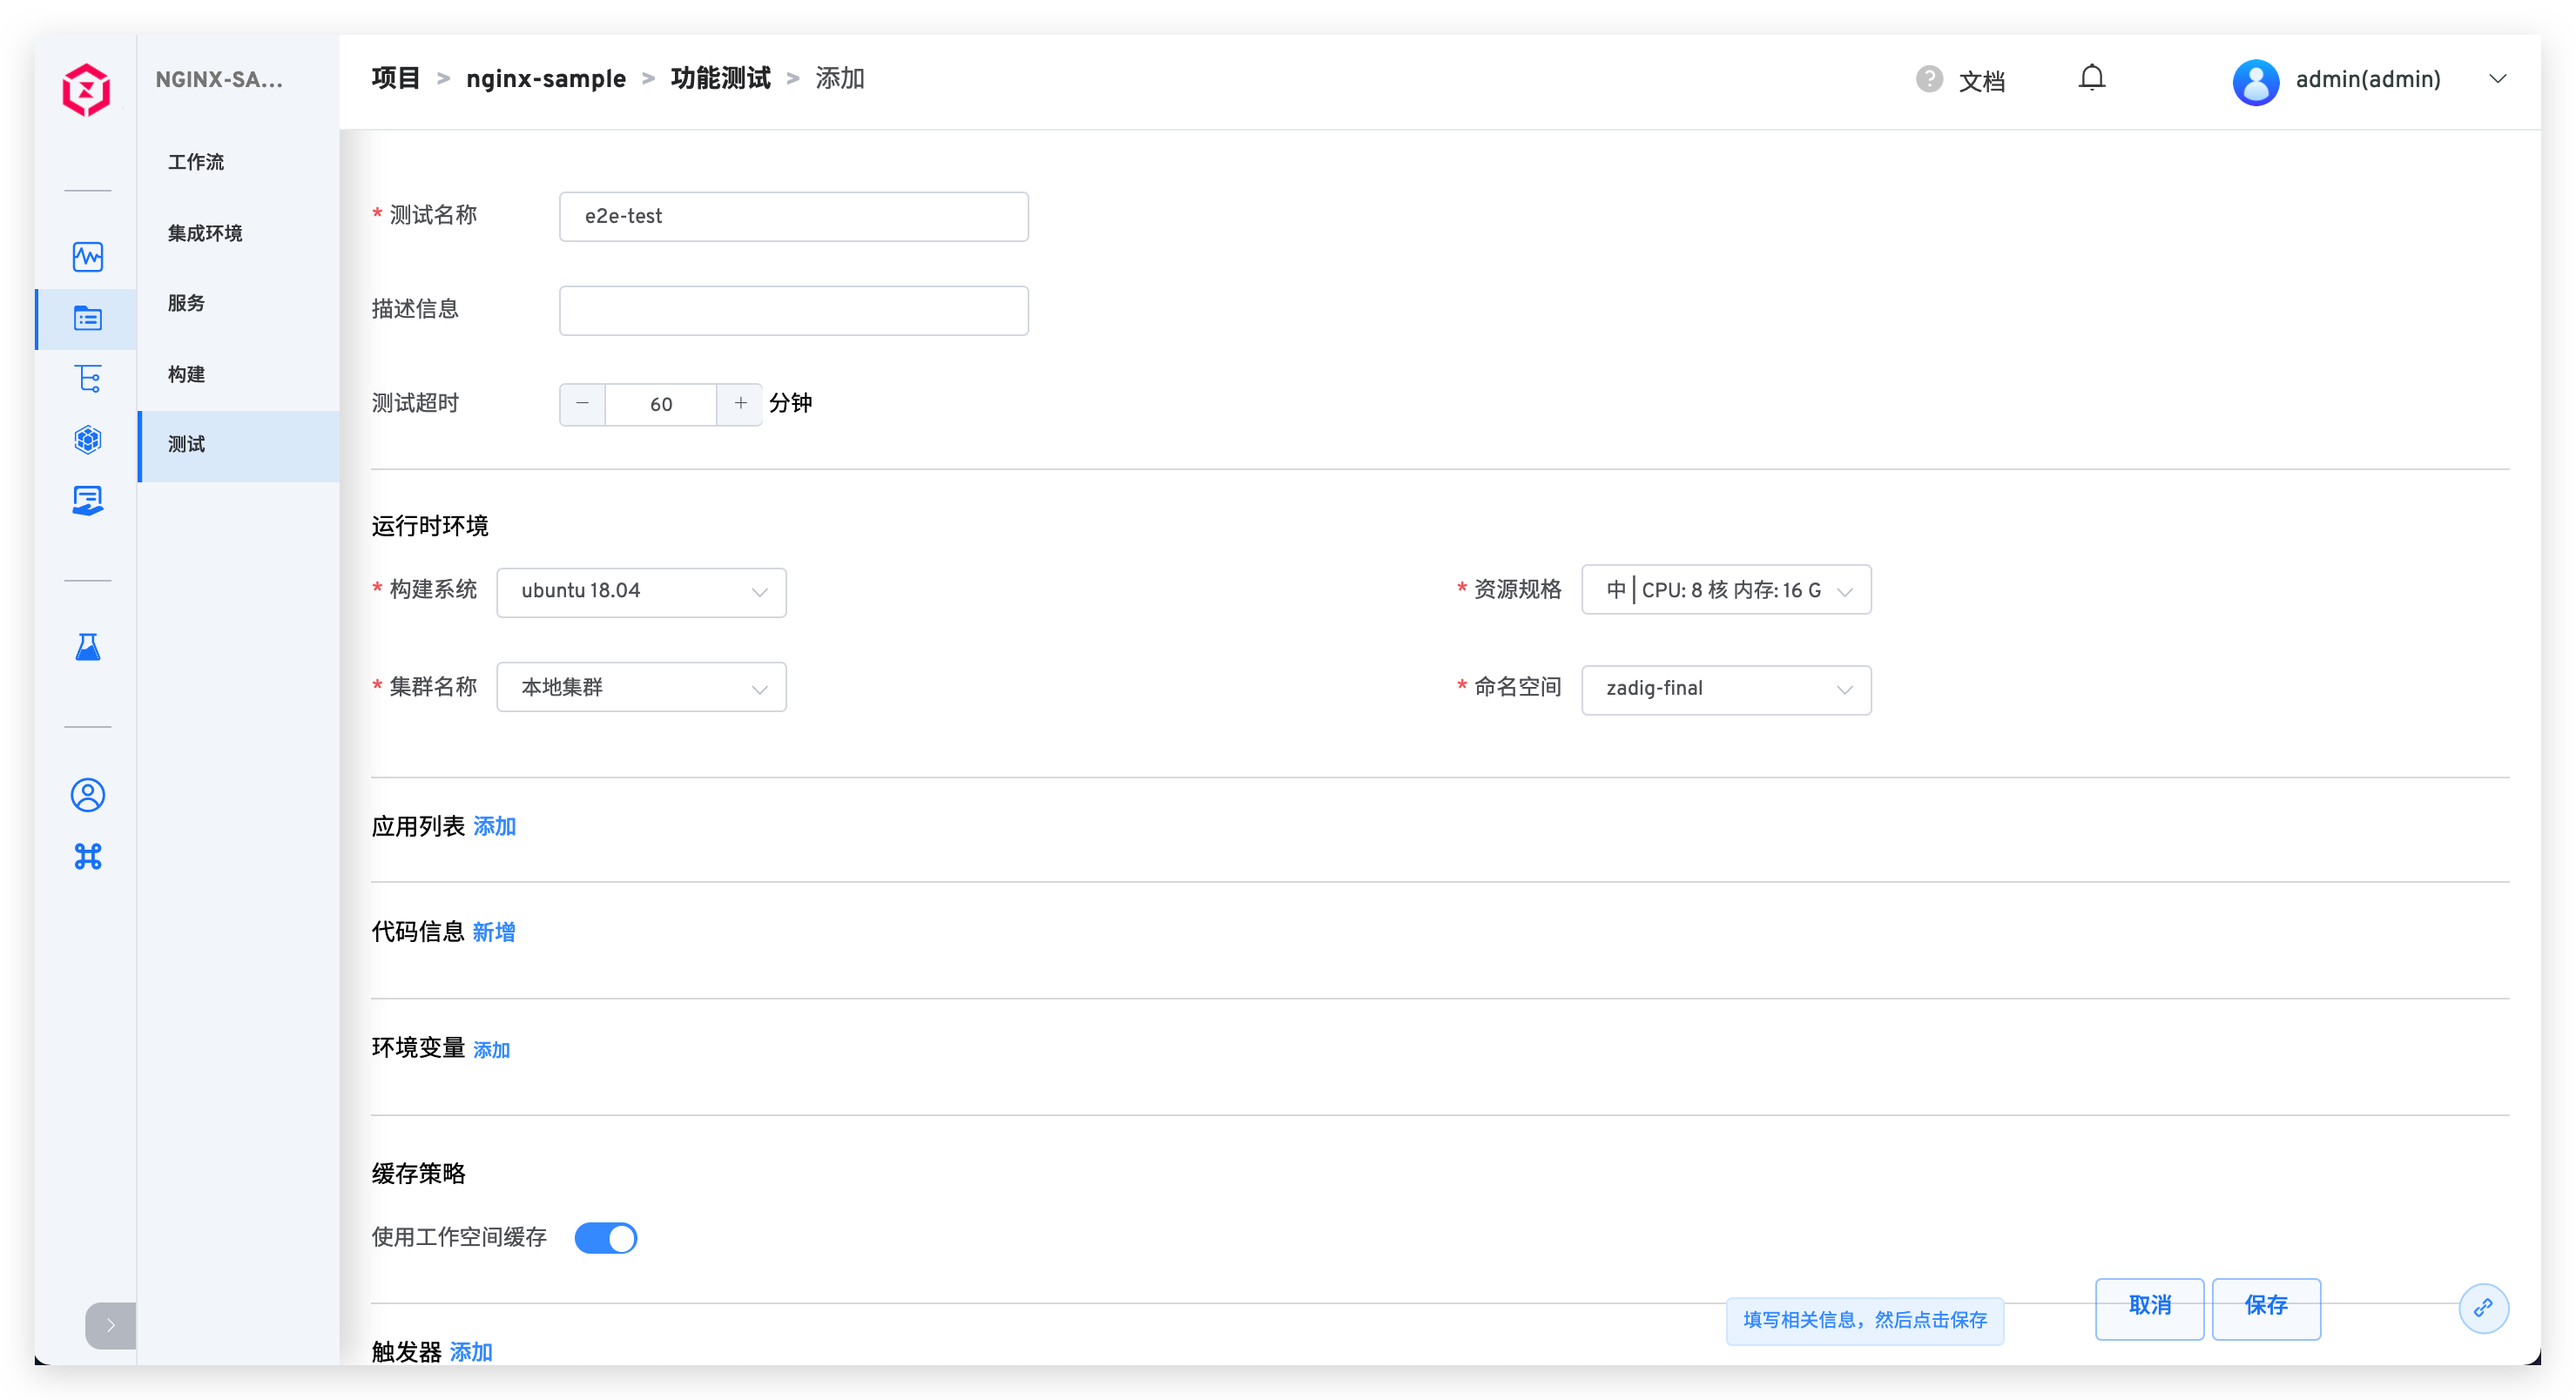
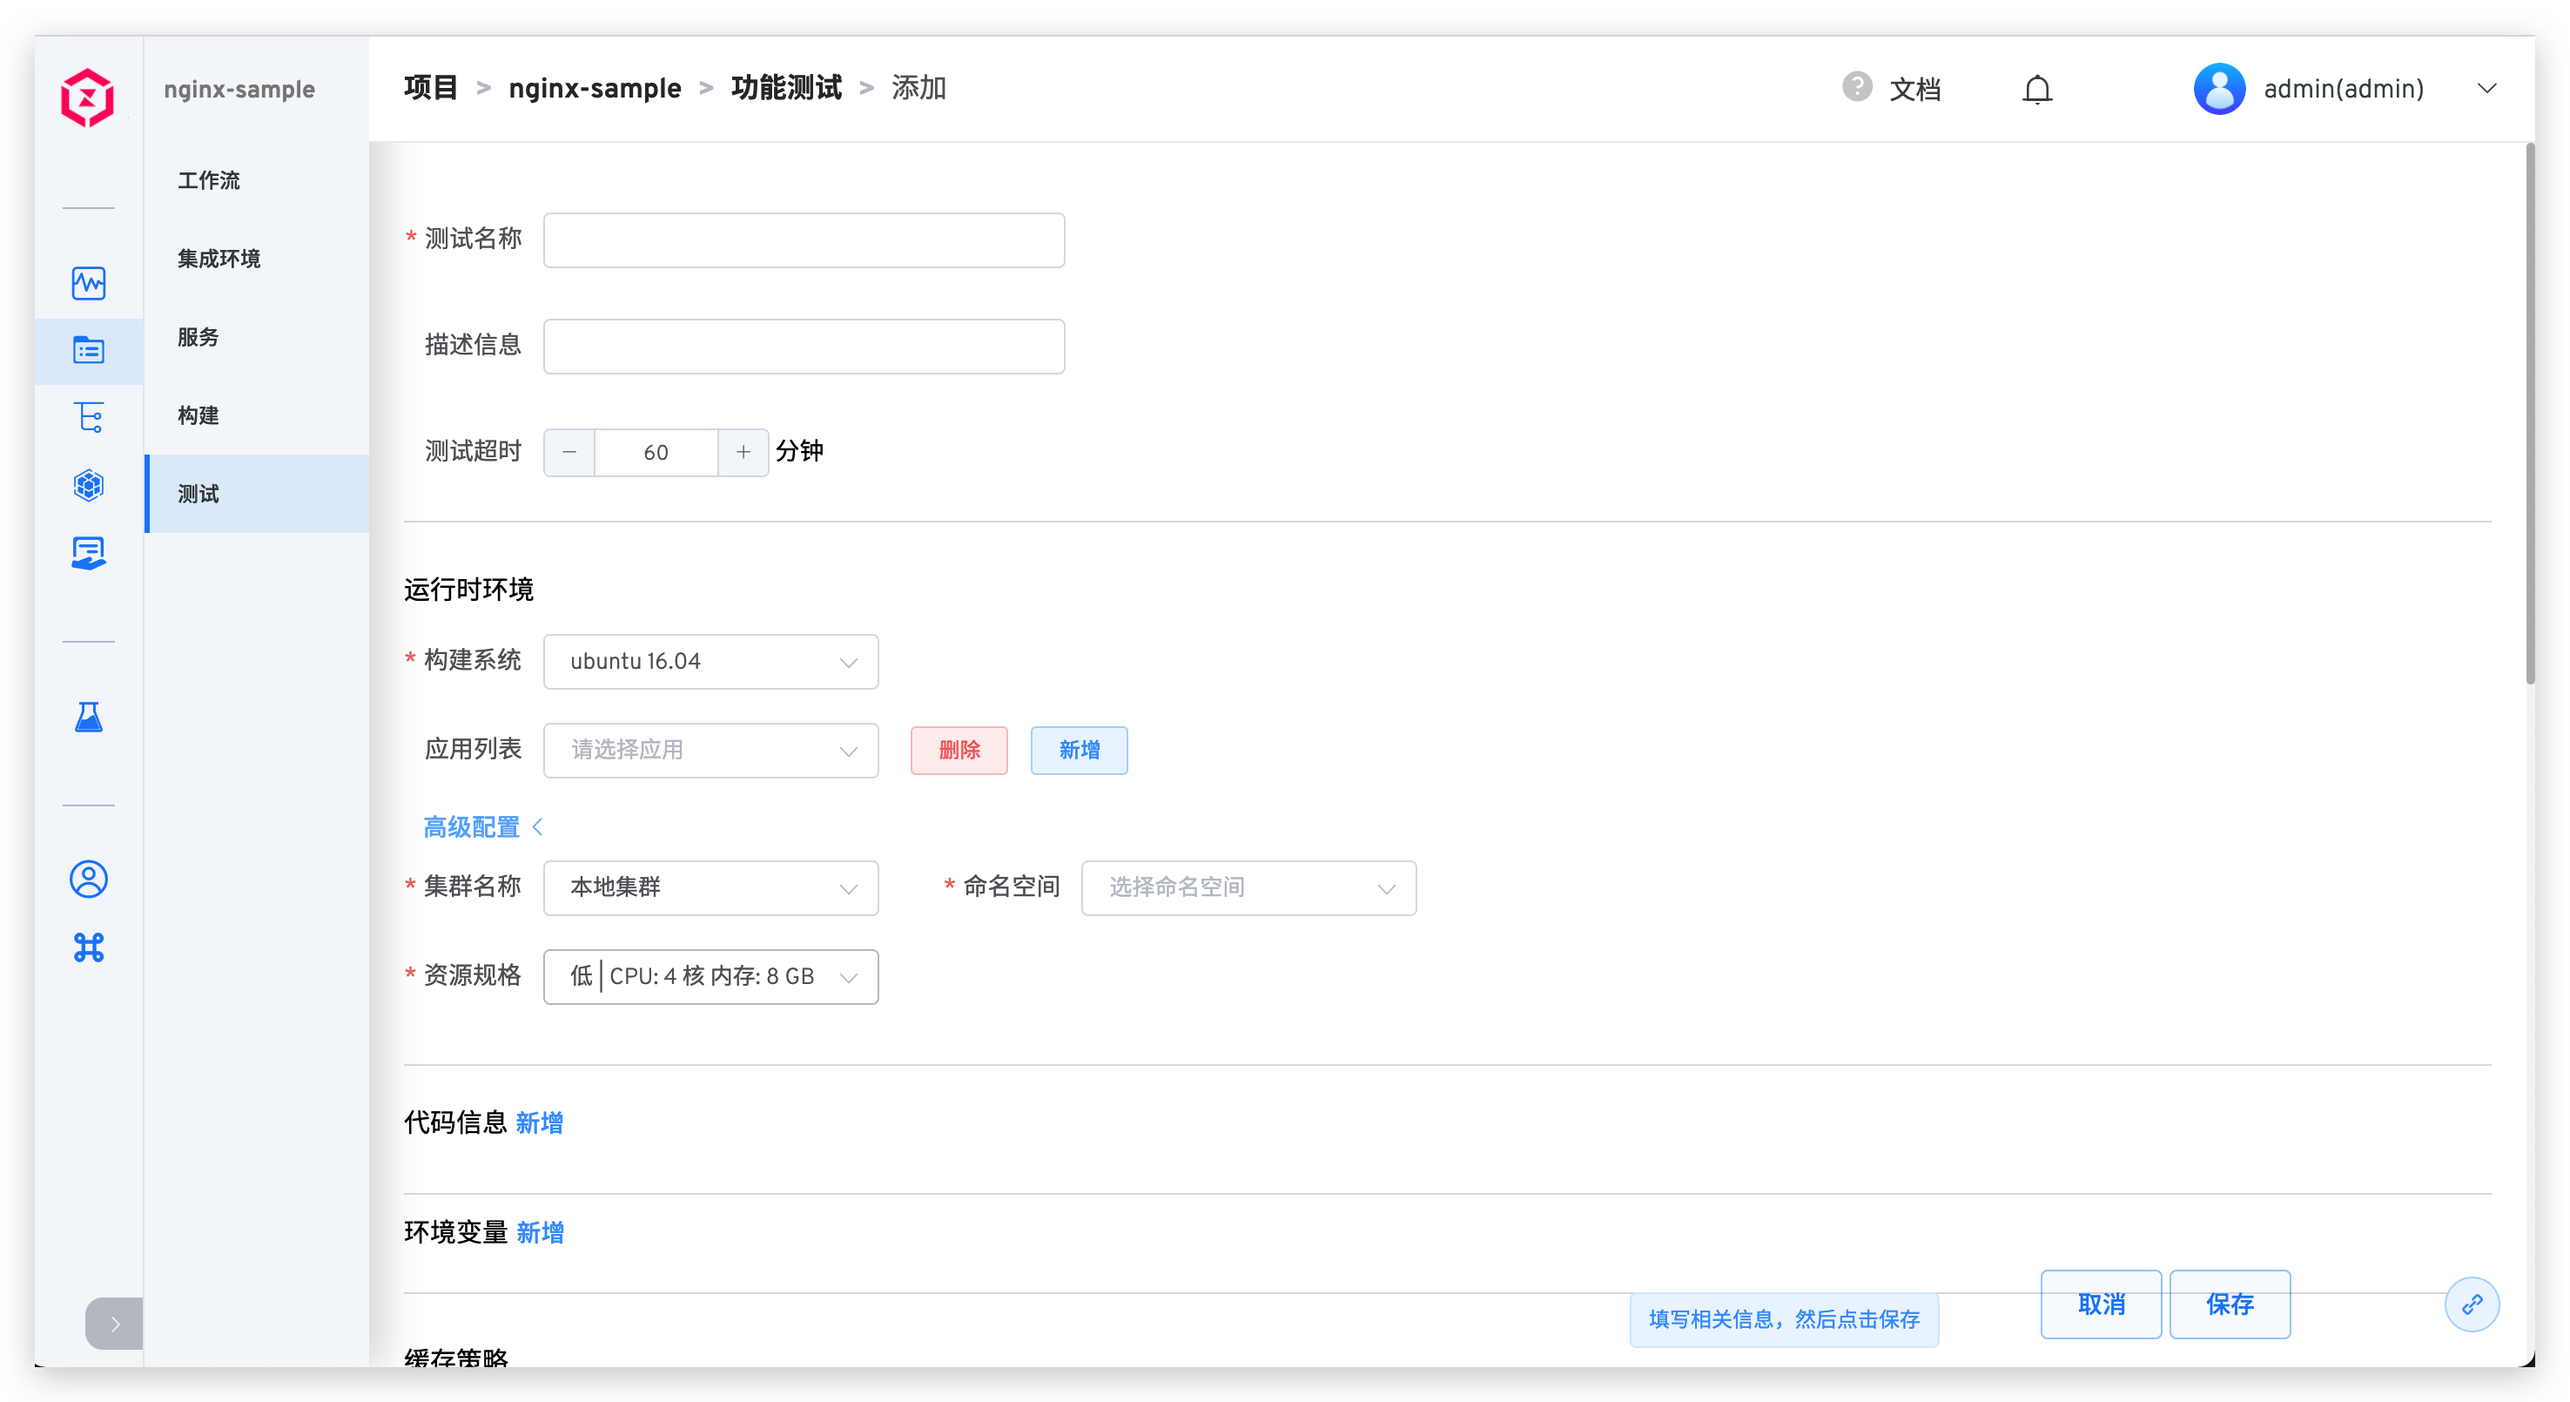
update test module

diff --git a/dev/04.项目/06.test.md b/dev/04.项目/06.test.md
@@ -23,14 +23,11 @@ permalink: /dev/project/test/
 - **运行时环境**：配置测试任务运行时的环境。
 
   - `构建系统`：目前平台提供 Ubuntu 16.04 / Ubuntu 18.04 / Ubuntu 20.04 供选择，也可以使用自定义镜像作为构建系统，详情请参考：[构建镜像管理](/dev/settings/custom-image/#步骤-1-生成构建镜像)。
-  - `资源规格`：平台提供 高/中/低/最低 四种配置供选择，可以根据实际需要自定义规格。
-  - `集群名称`：选择测试任务运行时所使用的集群，其中本地集群指 Zadig 系统所在的集群。关于集群的集成可参考：[集群管理](/dev/pages/cluster_manage/)。
-  - `命名空间`：选择测试任务运行时所使用的 K8s 命名空间。
-
-- **应用列表**
-
-  - `应用`：编译过程中需要用到的各类工具，比如不同版本的 Java、Go、Govendor、Node、Bower、Yarn、Phantomjs 等等。目前系统内置 Jmeter、Ginkgo、Selenium 常见工具。
-  - 如果有其他应用或者版本需求，系统管理员可以在[应用设置](/dev/settings/app/)中配置应用工具的安装脚本。
+  - `应用列表`：编译过程中需要用到的各类工具，比如不同版本的 Java、Go、Govendor、Node、Bower、Yarn、Phantomjs 等等。目前系统内置 Jmeter、Ginkgo、Selenium 常见工具。如果有其他应用或者版本需求，系统管理员可以在[应用设置](/dev/settings/app/)中配置应用工具的安装脚本。
+  - `高级配置`：
+    - `集群名称`：选择测试任务运行时所使用的集群，其中本地集群指 Zadig 系统所在的集群。关于集群的集成可参考：[集群管理](/dev/pages/cluster_manage/)。
+    - `命名空间`：选择测试任务运行时所使用的 K8s 命名空间。
+    - `资源规格`：平台提供 高/中/低/最低 四种配置供选择，可以根据实际需要自定义规格。
 
 - **代码信息**
 
@@ -38,9 +35,9 @@ permalink: /dev/project/test/
   - `代码库名称（Repo）`：代码库的名称。
   - `默认分支（Branch）`：执行工作流时，默认选取的分支，与高级配置中的默认设置配合使用，可以限制每次编译的 Branch。
 
-- **环境变量**
-
-  - `敏感信息`：若编译脚本中存在敏感信息，如 Access Key Id、Secret Access Key 等信息，可以设置敏感信息来隐藏控制台 Console 输出。配置后，可在测试脚本中作为环境变量使用。
+- **环境变量**：平台支持用户自定义环境变量，并在测试脚本中使用。
+  - 支持使用字符串类型或者枚举类型的环境变量。
+  - 可以设置字符串类型的变量为敏感信息，如 Access Key Id、Secret Access Key 等信息。设置为敏感信息后，测试任务的运行日志中将不会再输出其明文信息。
 
 - **缓存策略**
 
@@ -57,6 +54,8 @@ permalink: /dev/project/test/
   - `定时循环`：在某个时间点定时执行某个测试，例如每天 12：00 运行，每周一 10：00 运行。
   - `周期循环`：周期性的执行某个任务，例如每 30 分钟 执行一次测试。
   - `Cron 表达式`：使用 Cron 表达式定义执行时间。
+
+- **通知**：支持配置测试任务最终执行状态通知到企业微信、钉钉、飞书。
 
 - **测试报告**:
 
@@ -122,3 +121,8 @@ permalink: /dev/project/test/
 
 ![timer](./_images/cron_timer.png)
 
+#### 通知
+
+点击添加后配置通知的 Webhook 类型以及通知事件保存即可，具体配置可参考 [IM 状态通知](/dev/project/workflow/#企业微信)。
+
+![notify](./_images/notify.png)
